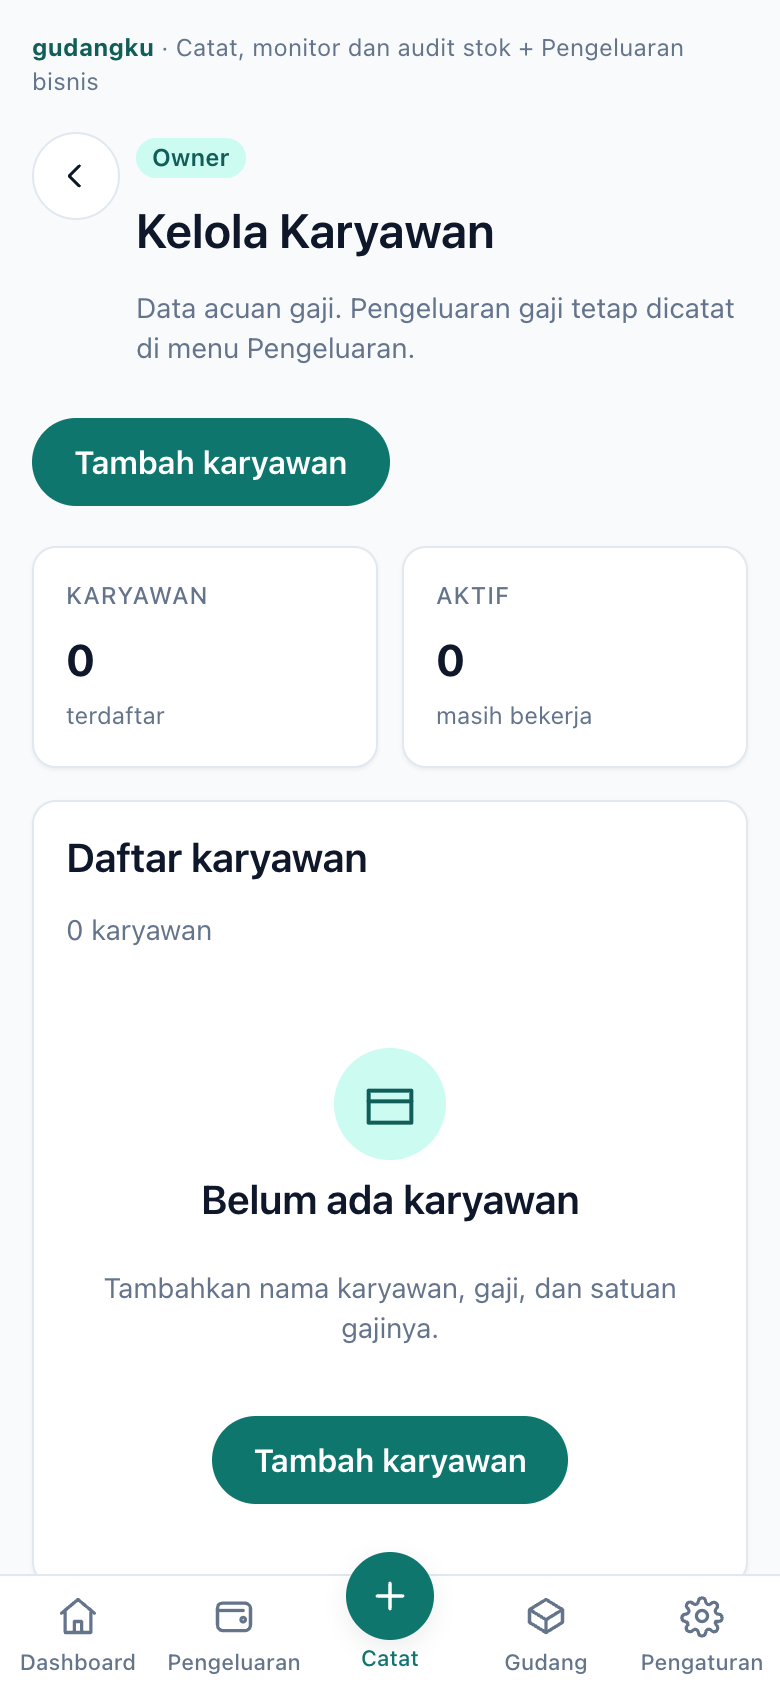
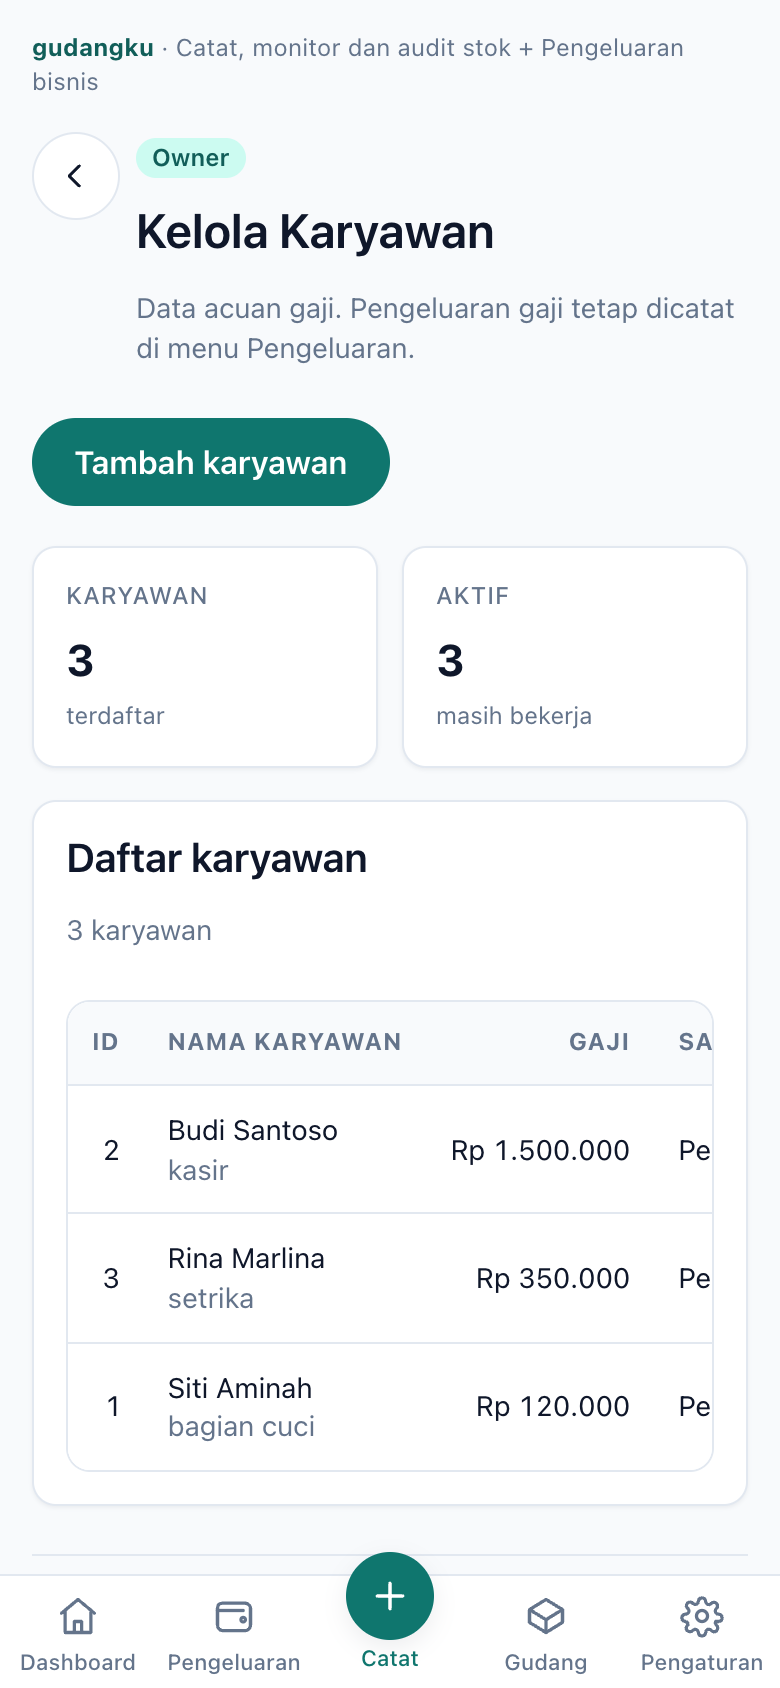
docs: screenshots for supplier, price list, and employee modules

diff --git a/docs/PRESENTASI.md b/docs/PRESENTASI.md
@@ -190,8 +190,10 @@ Semua file di `docs/screenshots/`, diambil pada viewport 390×844 (2× DPR) mema
 | `01-login.png` | Form login, state default |
 | `15-login-tagline.png` | Tagline aplikasi di layar login |
 | `17-warehouse.png` | Menu Gudang: empat kartu yang seluruhnya bisa diklik |
-| `20-barang.png` | Halaman barang: kolom Barang, Kategori, Satuan, Stok, Min, Harga beli |
-| `21-outlet.png` | Halaman outlet tanpa kolom transaksi yang membingungkan |
+| `20-barang.png` | Harga Barang: Kode Barang, Nama Barang, Satuan, ID Supplier, Harga Satuan, Tanggal Update Harga |
+| `21-outlet.png` | Kelola Outlet: kolom ID dan Nama Outlet, tanpa kolom transaksi |
+| `22-supplier.png` | Database Supplier: kontak, alamat, lead time, dan term of payment (TOP) |
+| `23-karyawan.png` | Kelola Karyawan: nama, gaji, dan satuan gaji (harian/mingguan/bulanan) |
 | `18-tambah-kategori.png` | Form tambah kategori terbuka langsung dari menu Gudang |
 | `19-tambah-outlet.png` | Form tambah outlet terbuka langsung dari menu Gudang |
 | `16-dashboard-tagline.png` | Tagline di header aplikasi (dashboard owner) |
